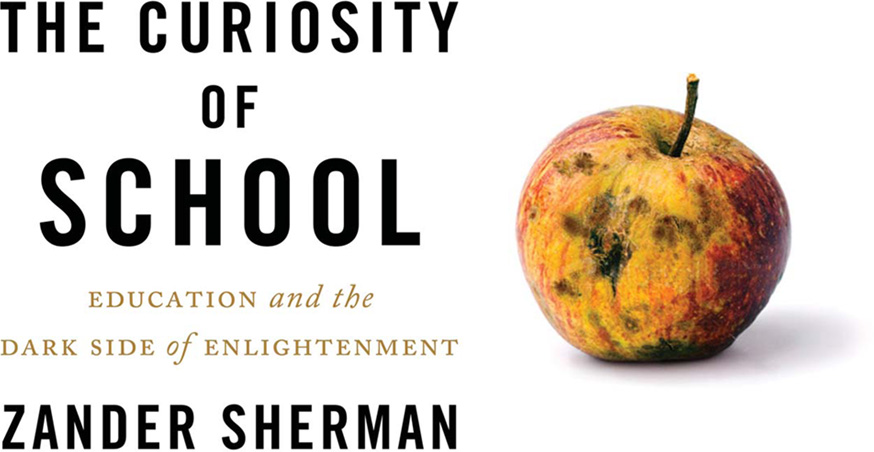
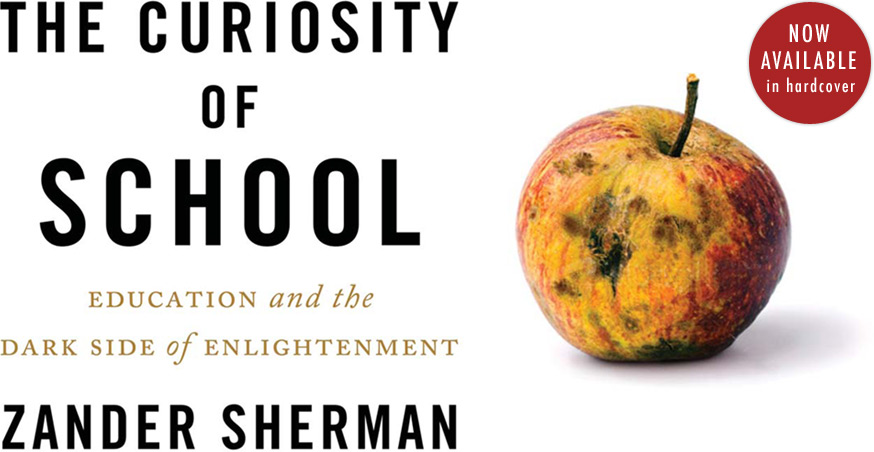
adding now available badge and new URLs to purchase

Changed region(s): [[0.8341, 0.0, 1.0, 0.2788]]

diff --git a/index.html b/index.html
@@ -52,10 +52,17 @@
 					<div class="inner">
 						<a href="#" class="close ir">x</a>
 						<img class="right" src="images/book-small.jpg" width="135" height="218" />
-						<h3>Pre-order Now</h3>
-						<p><a href="http://www.amazon.ca/Curiosity-School-Zander-Sherman/dp/0670066435/ref=sr_1_1?s=books&amp;ie=UTF8&amp;qid=1341172292&amp;sr=1-1">Amazon</a>
+						<h3>Now Available</h3>
+						<p><a href="http://www.amazon.ca/Curiosity-School-Zander-Sherman/dp/0670066435/ref=s
+r_1_1?ie=UTF8&amp;qid=1344347358&amp;sr=8-1">Amazon</a>
 						<br/>
-						<a href="http://www.chapters.indigo.ca/books/The-Curiosity-Of-School-Zander-Sherman/9780670066438-item.html?ikwid=the+curiosity+of+school&amp;ikwsec=Home">Chapters/Indigo</a></p>
+						<p><a href="http://www.amazon.com/The-Curiosity-of-School-ebook/dp/B008I6LOVM/ref=sr
+_1_1?s=digital-text&amp;ie=UTF8&amp;qid=1344347464&amp;sr=1-1">Kindle</a>
+						<br/>
+						<p><a href="http://www.chapters.indigo.ca/books/The-Curiosity-Of-School-Zander-Sherm
+an/9780670066438-item.html?ikwid=curiosity+of+school&amp;ikwsec=Home">Chapters/Indigo</a>
+						</p>
+
 						<!-- 
 						<p class="disabled">Amazon.com (coming soon)</p>
 						 -->
